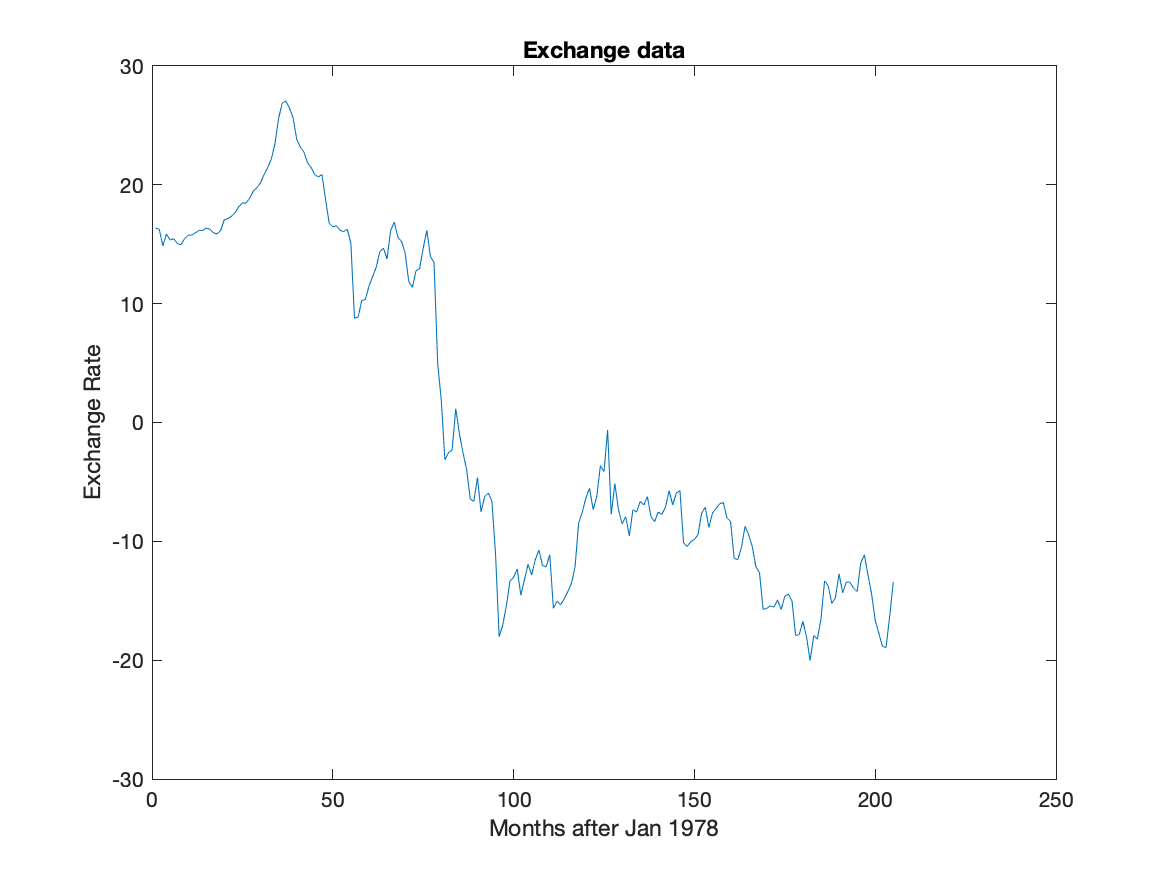
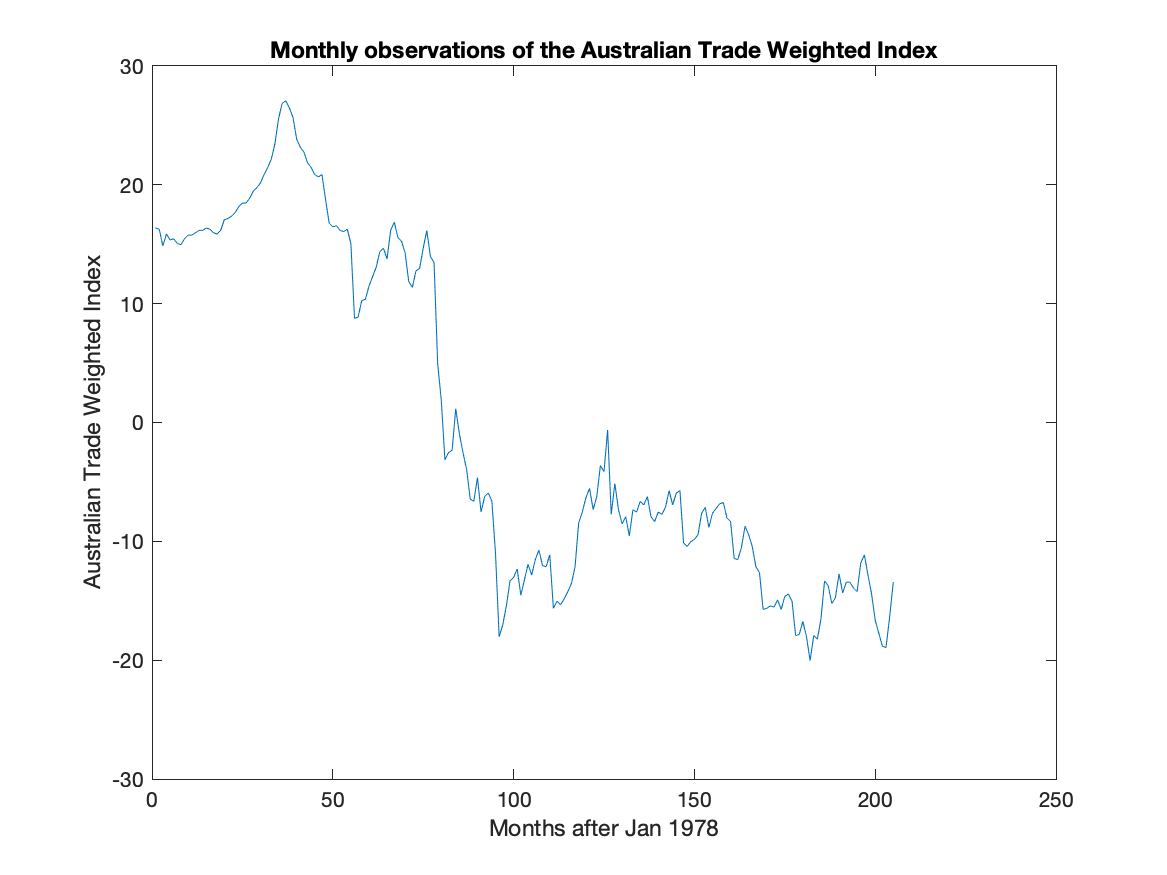
ACF Plots for problem 2

Changed region(s): [[0.2159, 0.0309, 0.8021, 0.0926], [0.0617, 0.2777, 0.0925, 0.6789]]

diff --git a/project1.m b/project1.m
@@ -22,9 +22,9 @@ corrected_data = data - mean(data);
 figure;
 % subplot(2,2,1);
 plot(corrected_data);
-ylabel("Exchange Rate");
+ylabel("Australian Trade Weighted Index");
 xlabel("Months after Jan 1978");
-title("Exchange data");
+title("Monthly observations of the Australian Trade Weighted Index");
 saveas(gcf,'plots/exchangedata.png');
 figure;
 % subplot(2,2,2);
@@ -58,29 +58,40 @@ chi2cdf(lambda_log, 20, 'upper');
 
 % IID should be 0 covariance
 figure;
-subplot(2,2,1);
+%subplot(2,2,1);
 stem(acf_data, 'filled');
 % Draw +- 1.96 / sqrt(n) lines
-yline(1.96 / sqrt(n_data), '--', '1.96/sqrt(n)');
-yline(-1.96 / sqrt(n_data), '--', '-1.96/sqrt(n)');
+yline(1.96 / sqrt(n_data), '--');
+yline(-1.96 / sqrt(n_data), '--');
 title("ACF for original data");
+ylabel("Correlation");
+xlabel("h");
 axis([1 20 -1 1]);
+saveas(gcf,'plots/acf_exchange.png');
 
-subplot(2,2,2);
+figure;
+%subplot(2,2,2);
 stem(acf_abs, 'filled');
 % Draw +- 1.96 / sqrt(n) lines
-yline(1.96 / sqrt(n_returns), '--', '1.96/sqrt(n)');
-yline(-1.96 / sqrt(n_returns), '--', '-1.96/sqrt(n)');
+yline(1.96 / sqrt(n_returns), '--');
+yline(-1.96 / sqrt(n_returns), '--');
 title("ACF for absolute returns");
+ylabel("Correlation");
+xlabel("h");
 axis([1 20 -1 1]);
+saveas(gcf,'plots/acf_abs_returns.png');
 
-subplot(2,2,3);
+%subplot(2,2,3);
+figure;
 stem(acf_log, 'filled');
 % Draw +- 1.96 / sqrt(n) lines
-yline(1.96 / sqrt(n_returns), '--', '1.96/sqrt(n)');
-yline(-1.96 / sqrt(n_returns), '--', '-1.96/sqrt(n)');
+yline(1.96 / sqrt(n_returns), '--');
+yline(-1.96 / sqrt(n_returns), '--');
 title("ACF for log returns");
+ylabel("Correlation");
+xlabel("h");
 axis([1 20 -1 1]);
+saveas(gcf,'plots/acf_log_returns.png');
 
 % Problem 3
 training = corrected_log_returns(1:102);
@@ -98,17 +109,19 @@ end
 
 % Plot the predictions (red) and the actual values (black)
 figure;
-preds_plot = plot(preds(103:n_returns), '-o');
+preds_plot = plot(103:n_returns, preds(103:n_returns), '-o');
 preds_plot.Color = "red";
 hold on;
-actual_plot = plot(test, '-o');
+actual_plot = plot(103:n_returns, test, '-o');
 actual_plot.Color = "black";
-title("Predictions (red) and actual values (black)");
+title("Log Returns Predictions (red) and actual values (black)");
+ylabel("Log Returns");
+saveas(gcf,'plots/log_returns_preds.png');
 
 % Plot the residuals
-figure;
-stem(preds(103:n_returns) - test, 'filled');
-title("Predicted - Actual (Residuals)");
+% figure;
+% stem(103:n_returns, preds(103:n_returns) - test, 'filled');
+% title("Predicted - Actual (Residuals)");
 
 % mean squared error
 forecast_mse = mean((preds(103:n_returns) - test).^2);
